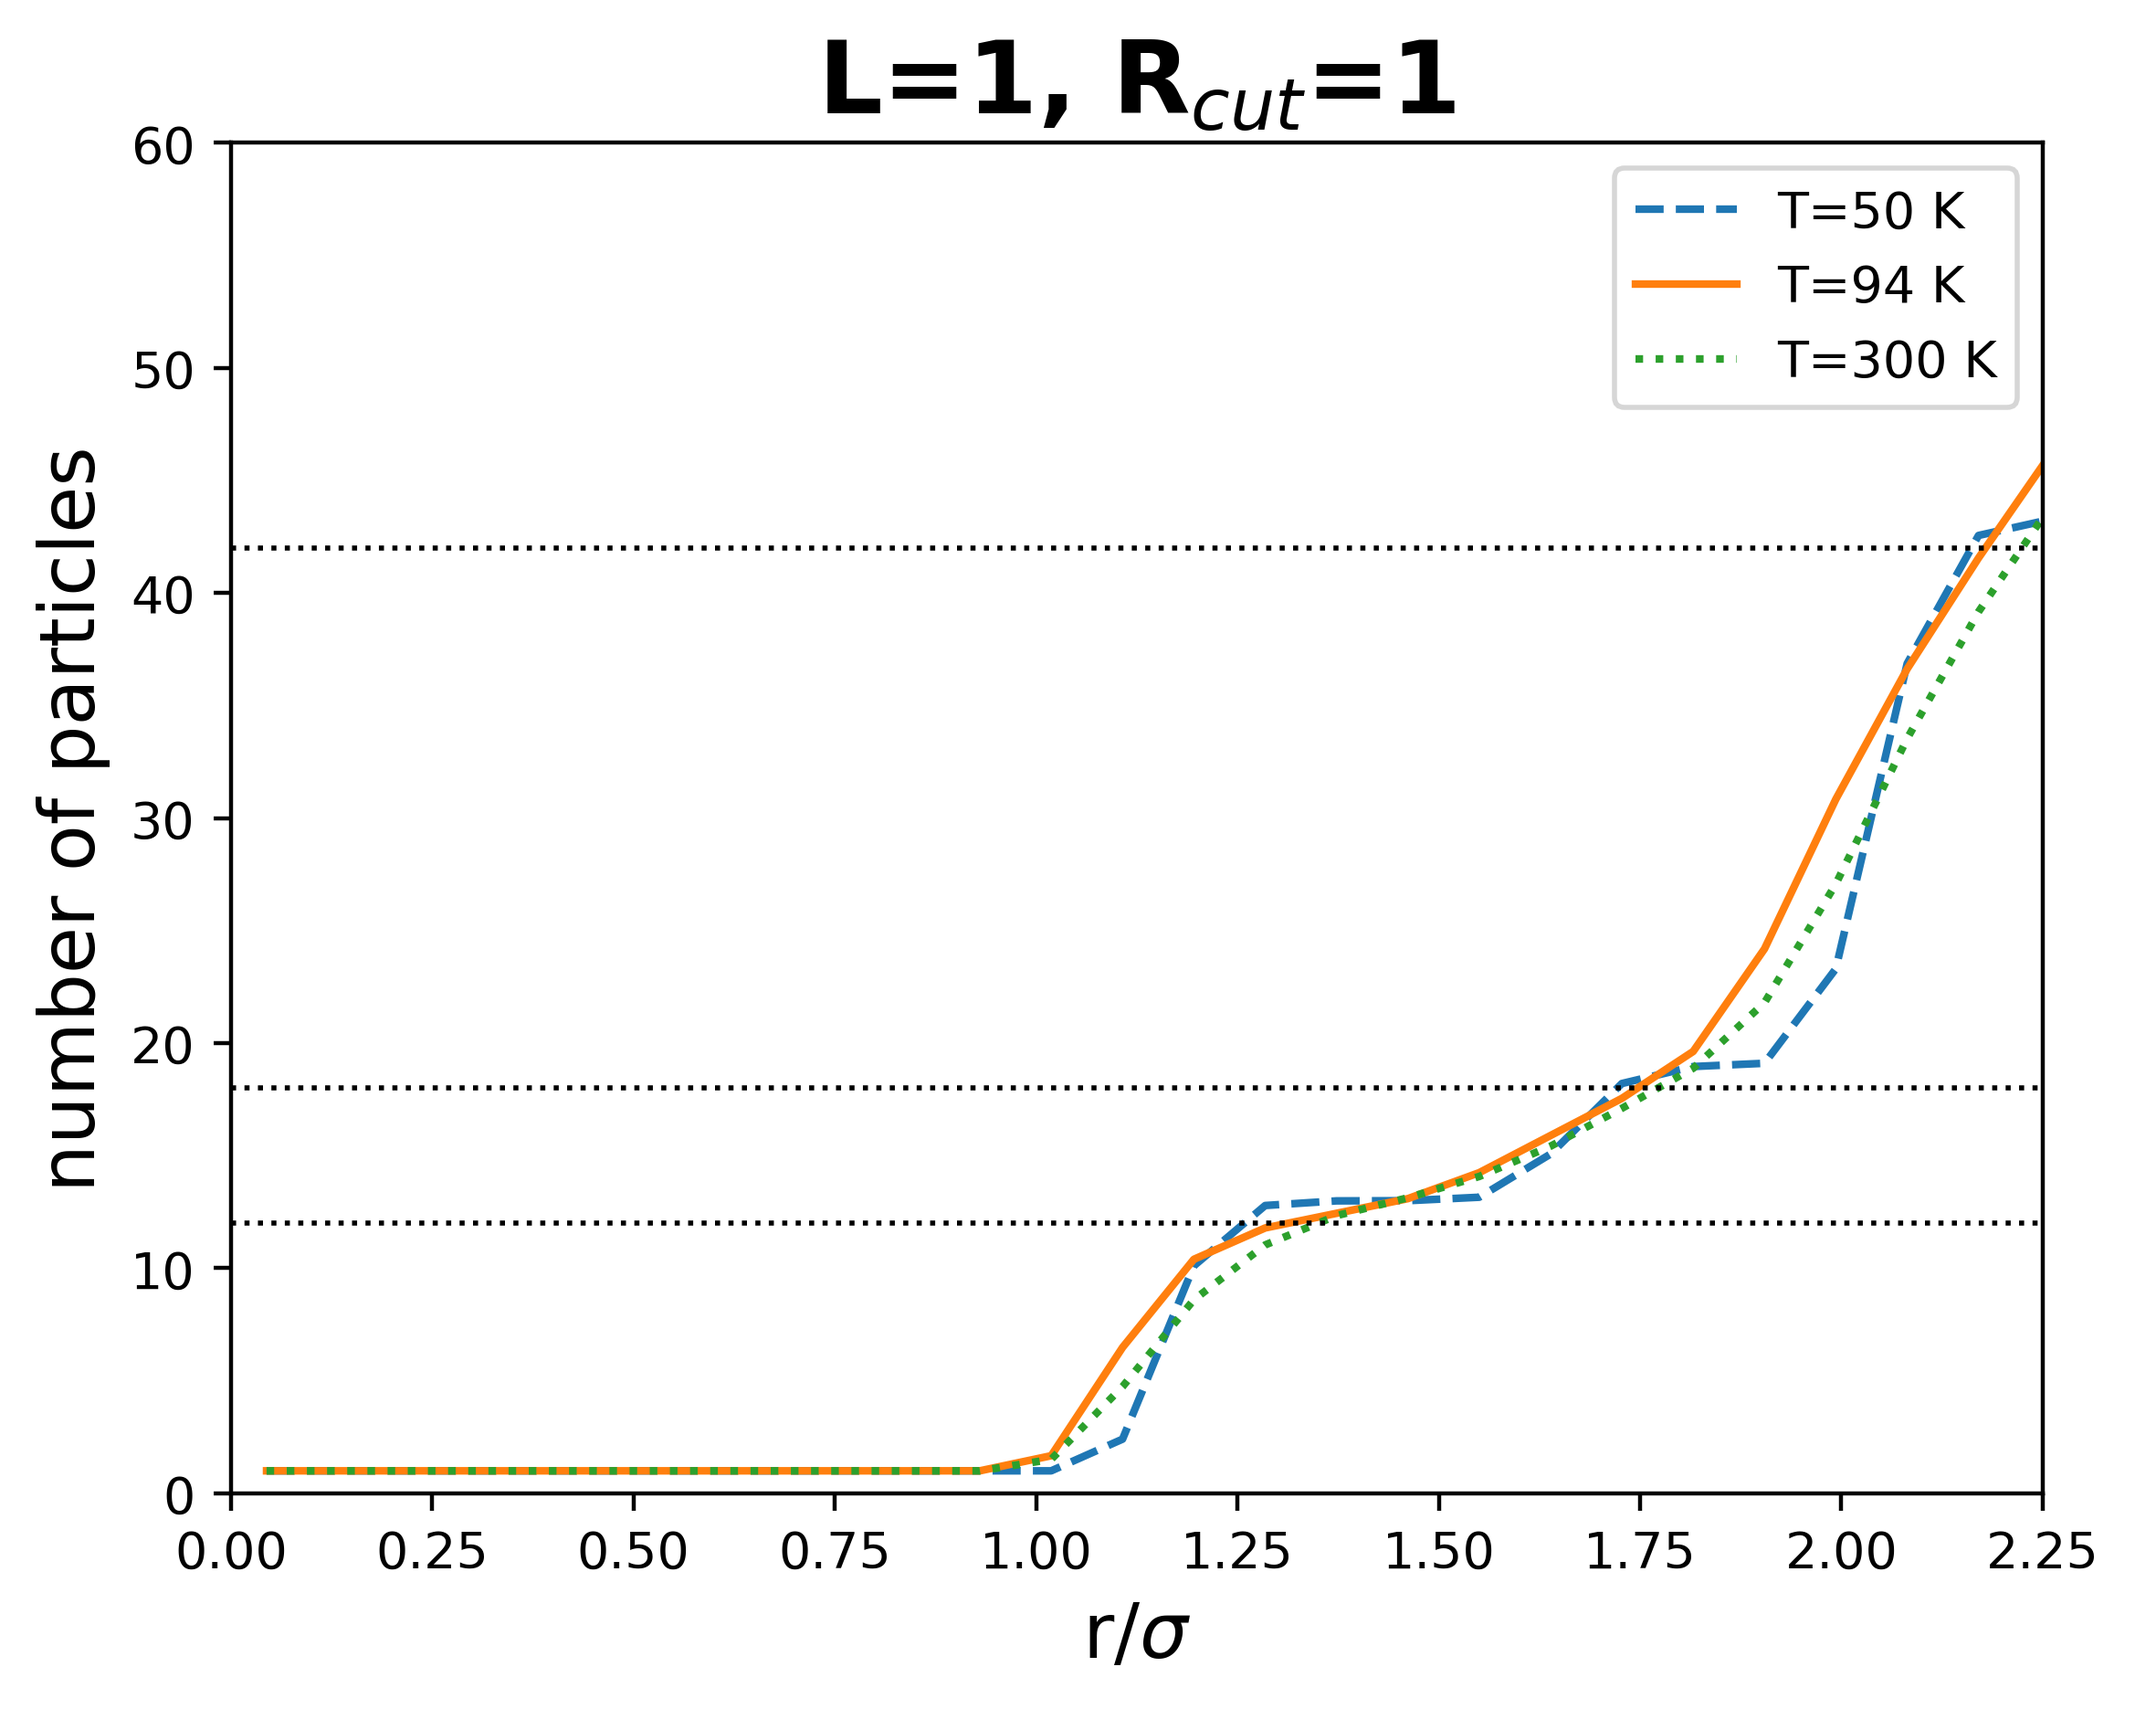
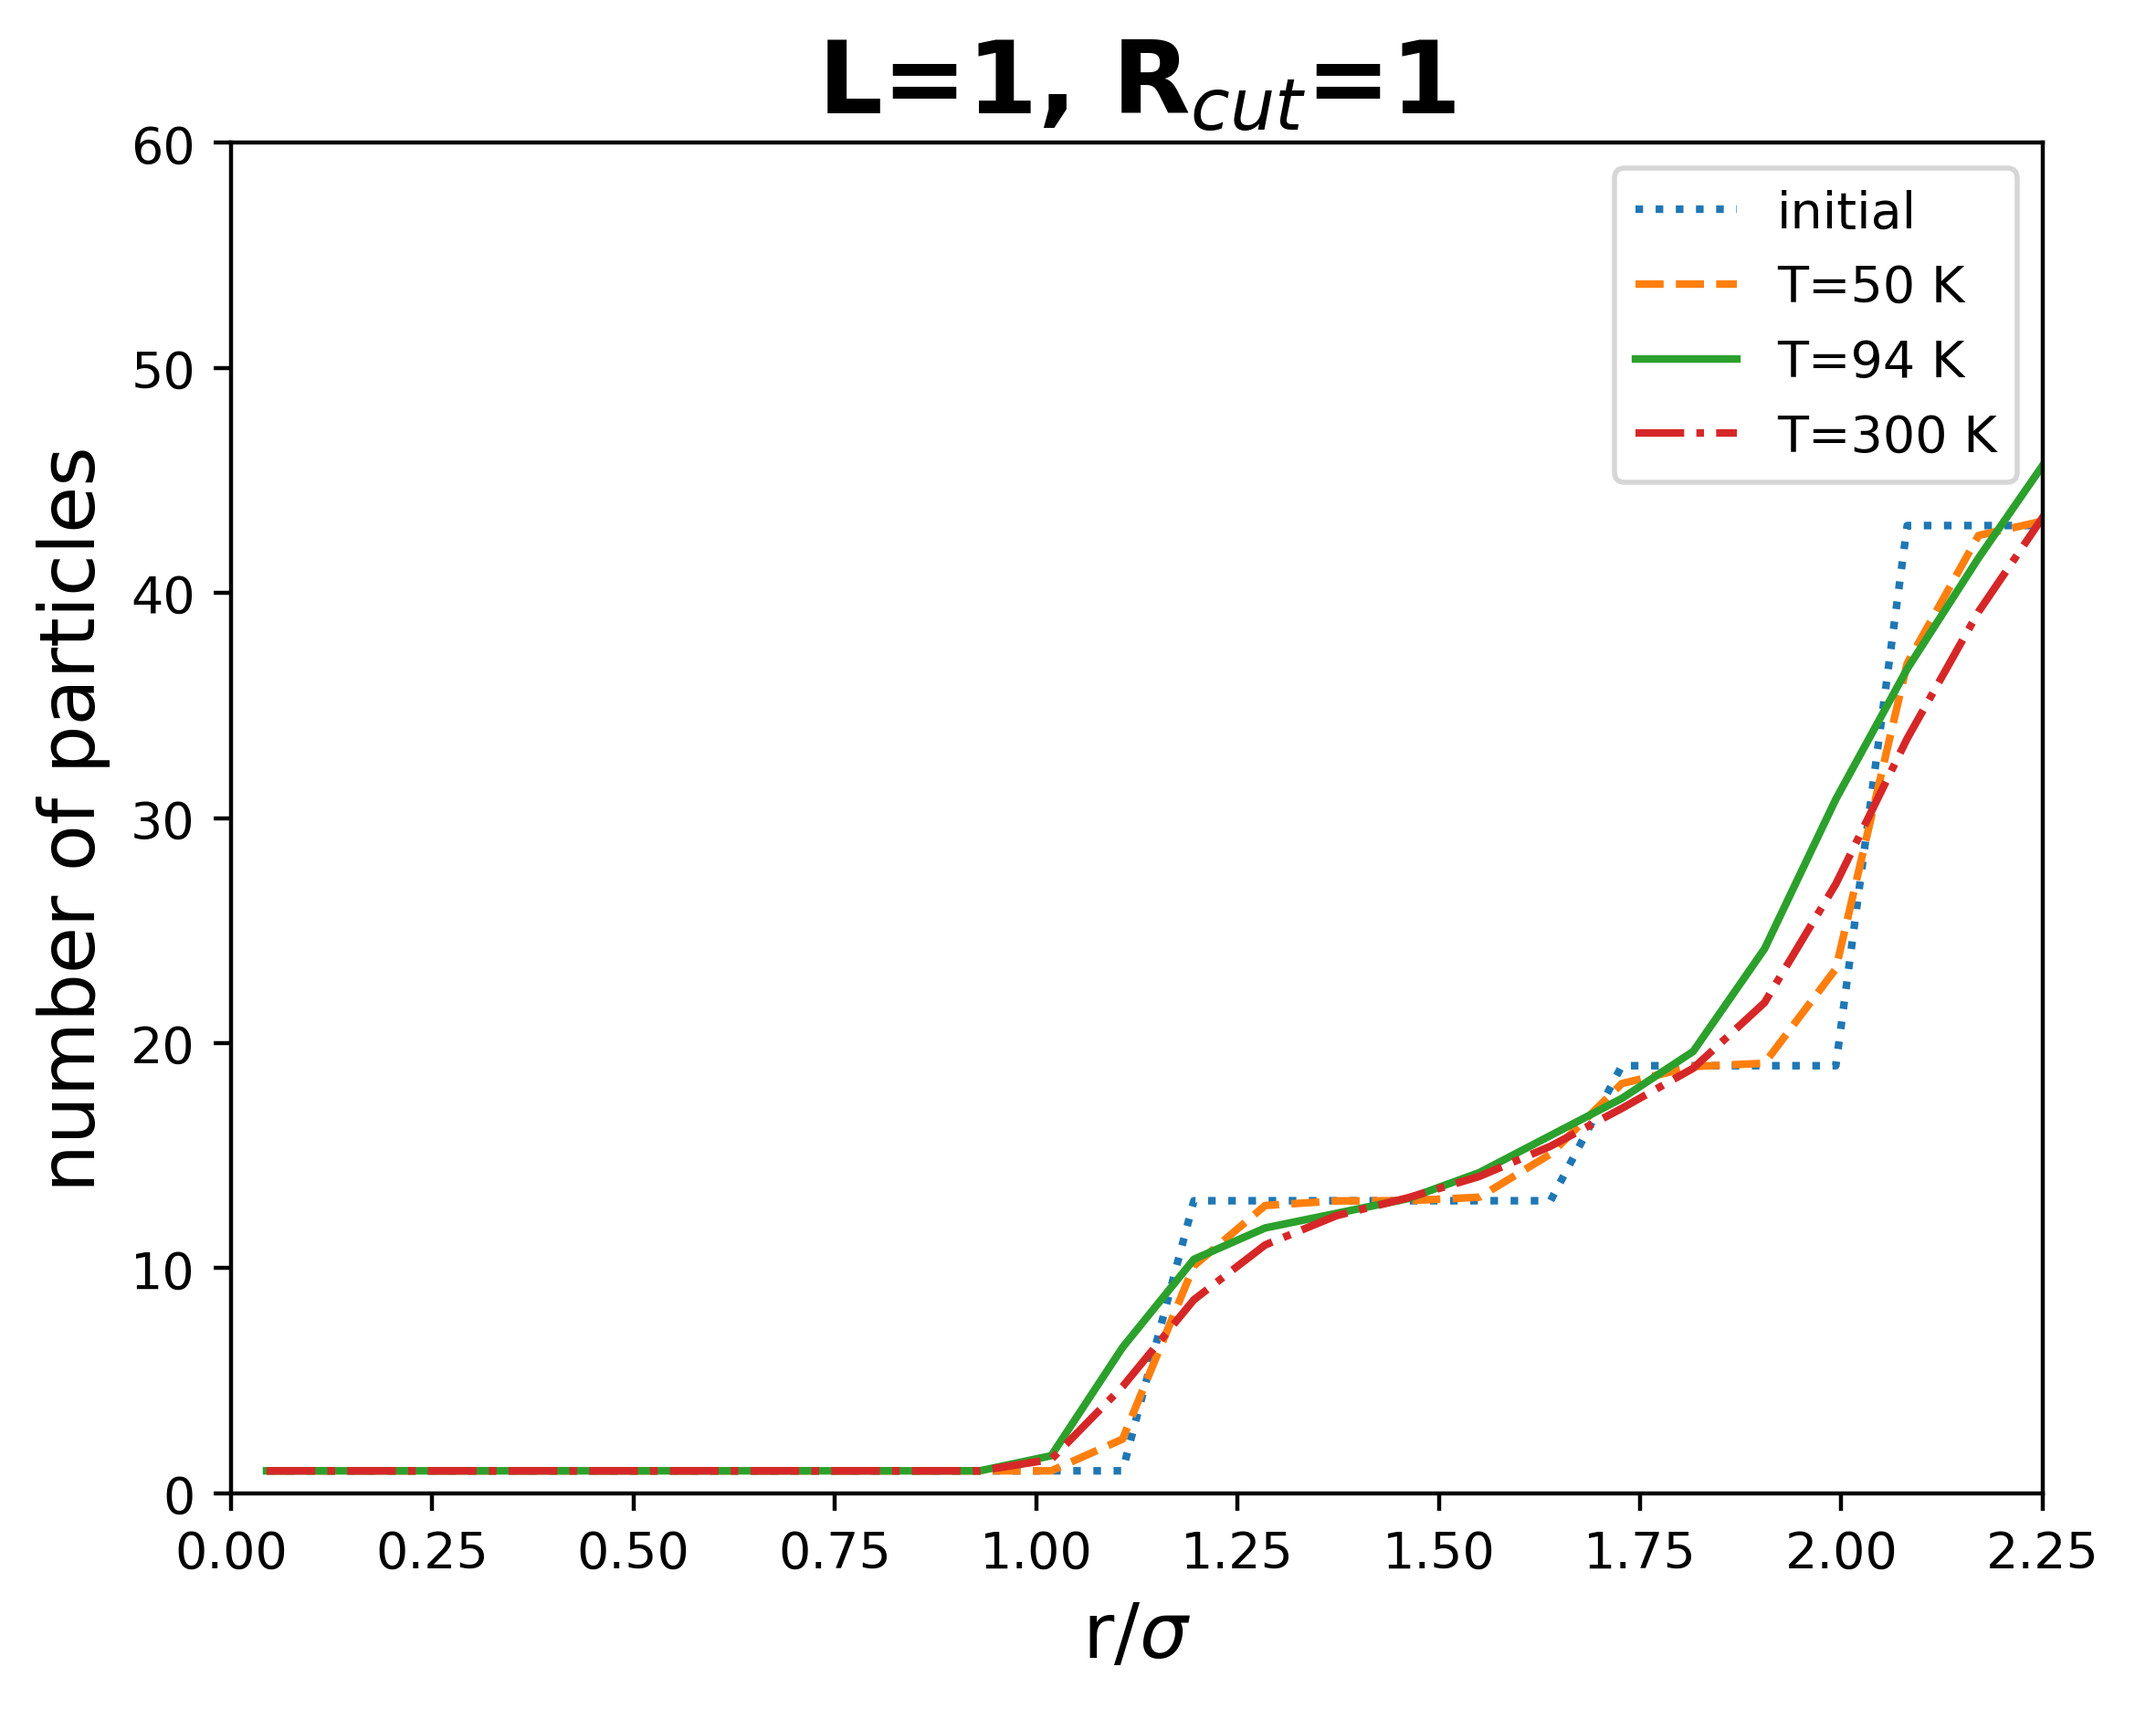
include initial rdf

Changed region(s): [[0.7494, 0.093, 0.9679, 0.651], [0.1249, 0.651, 0.7494, 0.868]]

diff --git a/instances.py b/instances.py
@@ -11,7 +11,7 @@ dpi = 400
 
 temp = 50
 thermo_rate = 10
-box_scale = 1
+box_scale = 2
 rcut_scale = 1
 equilibration = 500
 Niter = 2000
@@ -119,8 +119,13 @@ ins_300 = Plots(
     equilibration=equilibration,
     Niter=Niter,
 )
+
+
 # %%
 fig, ax = plt.subplots()
+ins_50.plot_specific_rdf(
+    time_snapshot=0, label=r"initial", linestyle=":", fig=fig, ax=ax
+)
 ins_50.plot_rdf(label="T=50 K", fmt="o-", fig=fig, ax=ax)
 ins_94.plot_rdf(label="T=94 K", fmt="s-", fig=fig, ax=ax)
 ins_300.plot_rdf(label="T=300 K", fmt="^-", fig=fig, ax=ax)
@@ -139,9 +144,13 @@ fig.savefig(
 CDF Plot
 """
 fig, ax = plt.subplots()
+ins_50.plot_specific_cdf(
+    time_snapshot=0, label=r"initial", fig=fig, ax=ax, linestyle=":"
+)
 ins_50.plot_cdf(label=f"T=50 K", fig=fig, ax=ax, linestyle="--")
 ins_94.plot_cdf(label=f"T=94 K", fig=fig, ax=ax, linestyle="-")
-ins_300.plot_cdf(label=f"T=300 K", fig=fig, ax=ax, linestyle=":")
+ins_300.plot_cdf(label=f"T=300 K", fig=fig, ax=ax, linestyle="-.")
+
 ax.set_title(
     rf"L={box_scale}, R$_{{cut}}$={rcut_scale}",
     fontsize=20,
@@ -153,16 +162,9 @@ fig.savefig(
     dpi=dpi,
 )
 # zoom-in at rcut and  highlight nearest neighbors
-ax.set_xlim(0, ins_50.Rcut / ins.sigma)
+ax.set_xlim(0, ins_50.Rcut / ins_50.sigma)
 ax.set_ylim(0, 60)
 
-ax.axhline(12, 0, ins_50.Rcut / ins.sigma, color="black", linestyle=":", linewidth=1)
-ax.axhline(
-    12 + 6, 0, ins_50.Rcut / ins.sigma, color="black", linestyle=":", linewidth=1
-)
-ax.axhline(
-    12 + 6 + 24, 0, ins_50.Rcut / ins.sigma, color="black", linestyle=":", linewidth=1
-)
 fig.savefig(
     f"plots/cdf_combined_L{box_scale}_Rc{rcut_scale}_Tr{thermo_rate}_Eq{equilibration}_step{Niter}_zoom.{file_format}",
     bbox_inches="tight",
@@ -186,57 +188,3 @@ ins = Plots(
 )
 folder = "/home/loerl/ictp-diploma/num2/project/tmp"
 ins.make_animation(folder)
-# %%
-
-# ax = plt.figure().add_subplot(projection="3d")
-# plt.subplots_adjust(right=1, top=1, left=0, bottom=0)
-# for t in range(0, ins.Niter):
-#     ax.clear()
-#     ax.set_xlim(0, ins.L)
-#     ax.set_ylim(0, ins.L)
-#     ax.set_zlim(0, ins.L)
-#     ax.scatter(
-#         ins.pos_config[t, :, 0][:],
-#         ins.pos_config[t, :, 1][:],
-#         ins.pos_config[t, :, 2][:],
-#     )
-# plt.pause(0.03)
-# plt.savefig(f"{folder}/{t}.png", dpi=100)
-# plt.show()
-
-
-# %%
-# single rdf
-# pos = ins.pos_config[-1]
-# i = ins.N // 2
-# pos_diff = pos[i] - pos
-# # remove self interaction (j=i)
-# pos_diff = np.delete(pos_diff, i, 0)
-# pos_diff = ins.min_image(pos_diff)
-# dist = np.linalg.norm(
-#     pos_diff, ord=2, axis=1
-# )  # distance between ith particle and others
-
-# cut up to L/2
-# dist = dist[dist <= ins.L / 2]
-
-# fig, ax = plt.subplots()
-# h, bin_edges, patches = ax.hist(
-#     dist,
-#     density=0,
-#     bins=30,
-#     linewidth=2.0,
-# )
-# h, bin_edges = np.histogram(
-#     dist,
-#     density=0,
-#     bins=30,
-# )
-# dr = bin_edges[1] - bin_edges[0]
-# bin_centers = (bin_edges[1:] + bin_edges[:-1]) / 2.0
-# denominator = 4 * np.pi * bin_centers**2 * dr * ins.N / ins.L**3
-# rdf = h / denominator
-
-# ax.vlines(ins.L / 2, 0, 60, color="red")
-# fig, ax = plt.subplots()
-# ax.plot(bin_centers, rdf, marker="o")

diff --git a/compare_rcut.py b/compare_rcut.py
@@ -4,7 +4,6 @@ from RDF import RDF
 from Plots import Plots
 import matplotlib.pyplot as plt
 import numpy as np
-import time
 
 file_format = "png"
 dpi = 400
@@ -40,6 +39,9 @@ ins_2 = Plots(
 
 # %%
 fig, ax = plt.subplots()
+ins_1.plot_specific_rdf(
+    time_snapshot=0, label=r"initial", linestyle=":", fig=fig, ax=ax
+)
 ins_1.plot_rdf(label=r"$R_{cut}=1$", fmt="o-", fig=fig, ax=ax)
 ins_2.plot_rdf(label=r"$R_{cut}=2$", fmt="s-", fig=fig, ax=ax)
 ax.set_title(
@@ -58,6 +60,9 @@ fig.savefig(
 CDF Plot
 """
 fig, ax = plt.subplots()
+ins_1.plot_specific_cdf(
+    time_snapshot=0, label=r"initial", fig=fig, ax=ax, linestyle=":"
+)
 ins_1.plot_cdf(label=r"$R_{cut}=1$", fig=fig, ax=ax, linestyle="--")
 ins_2.plot_cdf(label=r"$R_{cut}=2$", fig=fig, ax=ax, linestyle="-")
 ax.set_title(
@@ -74,29 +79,7 @@ fig.savefig(
 ax.set_xlim(0, ins_2.Rcut / ins_1.sigma)
 ax.set_ylim(0, 400)
 
-ax.axhline(12, 0, ins_2.Rcut / ins_1.sigma, color="black", linestyle=":", linewidth=1)
-ax.axhline(
-    12 + 6, 0, ins_2.Rcut / ins_1.sigma, color="black", linestyle=":", linewidth=1
-)
-ax.axhline(
-    12 + 6 + 24, 0, ins_2.Rcut / ins_1.sigma, color="black", linestyle=":", linewidth=1
-)
-ax.axhline(
-    12 + 6 + 24 + 12,
-    0,
-    ins_2.Rcut / ins_1.sigma,
-    color="black",
-    linestyle=":",
-    linewidth=1,
-)
-ax.axhline(
-    12 + 6 + 24 + 12 + 24,
-    0,
-    ins_2.Rcut / ins_1.sigma,
-    color="black",
-    linestyle=":",
-    linewidth=1,
-)
+
 fig.savefig(
     f"plots/cdf_combined_T{temp}_L{box_scale}_Tr{thermo_rate}_Eq{equilibration}_step{Niter}_zoom.{file_format}",
     bbox_inches="tight",

diff --git a/Plots.py b/Plots.py
@@ -40,6 +40,22 @@ class Plots(RDF):
             fontweight="bold",
         )
 
+    def plot_specific_rdf(self, label, fig, ax, time_snapshot=-1, linestyle="-"):
+        x_vals, avg = self.get_specific_rdf(time_snapshot)
+        ax.plot(
+            x_vals / self.sigma,
+            avg,
+            # markersize=4,
+            # marker="o",
+            label=label,
+            linestyle=linestyle,
+        )
+        ax.set_ylabel("radial distribution function", fontsize=15)
+        ax.set_xlabel(r"r/$\sigma$", fontsize=15)
+        ax.set_xlim(0, self.L * np.sqrt(3) / (4 * self.sigma))
+        ax.set_ylim(0)
+        ax.legend()
+
     def plot_rdf(
         self,
         label,
@@ -60,6 +76,15 @@ class Plots(RDF):
         ax.set_ylabel("radial distribution function", fontsize=15)
         ax.set_xlabel(r"r/$\sigma$", fontsize=15)
         ax.set_xlim(0, self.L * np.sqrt(3) / (4 * self.sigma))
+        ax.set_ylim(0)
+        ax.legend()
+
+    def plot_specific_cdf(self, label, fig, ax, linestyle="-", time_snapshot=-1):
+        x_vals, running_sum = self.get_specific_cdf(time_snapshot)
+        ax.plot(x_vals / self.sigma, running_sum, label=label, linestyle=linestyle)
+        ax.set_ylabel("number of particles", fontsize=15)
+        ax.set_xlabel(r"r/$\sigma$", fontsize=15)
+        ax.set_xlim(0, self.L * np.sqrt(3) / (2 * self.sigma))
         ax.set_ylim(0)
         ax.legend()
 

diff --git a/RDF.py b/RDF.py
@@ -27,6 +27,13 @@ class RDF(MolDyn):
         # twice rdf to take account min.image
         return self.bin_centers, 2 * h / denominator
 
+    def get_specific_rdf(self, time_snapshot):
+        dist_list = self.get_all_pair_dist(self.pos_config[int(time_snapshot)])
+        self.bin_centers, single_rdf_arr = self.get_rdf(dist_list)
+        single_rdf_arr = single_rdf_arr / self.N
+
+        return self.bin_centers, single_rdf_arr
+
     def combine_rdf(self):
         snapshots = np.linspace(self.equilibration, self.Niter, num=8, endpoint=False)
         rdf_config = np.empty([len(snapshots), self.bin_num])
@@ -39,6 +46,20 @@ class RDF(MolDyn):
         avg = np.mean(rdf_config, axis=0)
         errors = np.std(rdf_config, axis=0, ddof=1) / np.sqrt(len(snapshots))
         return x_vals, avg, errors
+
+    def get_specific_cdf(self, time_snapshot):
+        x_vals, avg = self.get_specific_rdf(time_snapshot)
+        running_sum = (
+            np.cumsum(avg * self.bin_centers**2)
+            * self.dr
+            * 4
+            * np.pi
+            * self.N
+            / self.L**3
+        )
+        # to include particle less than sigma
+        running_sum = running_sum + 1
+        return x_vals, running_sum
 
     def combine_cdf(self):
         x_vals, avg, _ = self.combine_rdf()

diff --git a/perfect_lattice.py b/perfect_lattice.py
@@ -1,0 +1,45 @@
+# %%
+from RDF import RDF
+from Plots import Plots
+import matplotlib.pyplot as plt
+
+file_format = "png"
+dpi = 400
+
+temp = 94
+thermo_rate = 10
+box_scale = 1
+rcut_scale = 1
+equilibration = 500
+Niter = 2000
+
+# %%
+"""
+ RDF PLOT 
+"""
+
+ins = Plots(
+    temp=temp,
+    box_scale=box_scale,
+    rcut_scale=rcut_scale,
+    thermo_rate=thermo_rate,
+    equilibration=equilibration,
+    Niter=Niter,
+)
+
+# %%
+fig, ax = plt.subplots()
+ins.plot_specific_rdf(time_snapshot=0, label=r"perfect lattice", fig=fig, ax=ax)
+ax.set_title(
+    rf"T={temp} K, L={box_scale}, R$_{{cut}}$={rcut_scale}",
+    fontsize=20,
+    fontweight="bold",
+)
+# %%
+"""
+CDF Plot
+"""
+fig, ax = plt.subplots()
+ins.plot_specific_cdf(time_snapshot=0, label=r"perfect lattice", fig=fig, ax=ax)
+
+# %%
